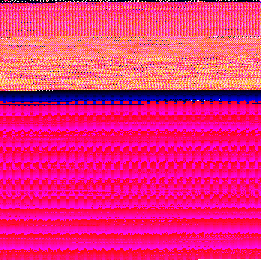
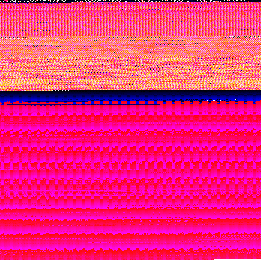
fix support of bump map multiplier - regenerate models image

diff --git a/objimg.js b/objimg.js
@@ -640,7 +640,7 @@
 						var diffuseColor = new THREE.Color(materialDatas.diffuse.r, materialDatas.diffuse.g, materialDatas.diffuse.b);
 						var specularColor = new THREE.Color(materialDatas.specular.r, materialDatas.specular.g, materialDatas.specular.b);
 						var normalScale = new THREE.Vector2(0.5, 0.5);
-						var bumpScale = 1.0;
+						var bumpScale = materialDatas.bump.multiplier;
 						var transparent = ((materialDatas.opacity.value < 1.0 || opacityMap != null) ? true : false);
 						var depthTest = materialDatas.shader.depthTest;
 						var depthWrite = materialDatas.shader.depthWrite;
@@ -1291,6 +1291,8 @@
 				var bumpMapCharacters = OBJImg.fn.getPixelValue(pixelIndex++, pixels);
 				var bumpClamp = (OBJImg.fn.getPixelValue(pixelIndex++, pixels) == 1 ? true : false);
 				var bumpChannel = OBJImg.fn.getPixelValue(pixelIndex++, pixels);
+				var bumpMultiplierMultiplicator = OBJImg.fn.getPixelValue(pixelIndex++, pixels);
+				var bumpMultiplier = OBJImg.fn.getPixelValue(pixelIndex++, pixels) / bumpMultiplierMultiplicator;
 
 				var bumpMap = null;
 
@@ -1408,7 +1410,8 @@
 					bump: {
 						map: bumpMap,
 						clamp: bumpClamp,
-						channel: bumpChannel || OBJImg.constants.channel.rgb
+						channel: bumpChannel || OBJImg.constants.channel.rgb,
+						multiplier: bumpMultiplier || 1.0
 					},
 					environement: {
 						map: environementMap,
@@ -2367,7 +2370,7 @@
 				pixelCount += 1 + materials[material].specular.map.length;
 				pixelCount += 1 + materials[material].specular.forceMap.length;
 				pixelCount += 1 + materials[material].normal.map.length;
-				pixelCount += 1 + materials[material].bump.map.length;
+				pixelCount += 3 + materials[material].bump.map.length;
 				pixelCount += 1 + materials[material].opacity.map.length;
 				pixelCount += 1 + materials[material].environement.map.length;
 				pixelCount += 1 + materials[material].shader.vertex.length;
@@ -2675,7 +2678,10 @@
 
 				var bumpMultiplierColor = OBJImg.fn.getColorFromValue(bumpMultiplerMultiplicator * materials[material].bump.multiplier);
 
-				console.log(materials[material].bump.multiplier, bumpMultiplerMultiplicatorColor, bumpMultiplierColor);
+				data[pixelIndex++] = bumpMultiplierColor.r;
+				data[pixelIndex++] = bumpMultiplierColor.g;
+				data[pixelIndex++] = bumpMultiplierColor.b;
+				data[pixelIndex++] = bumpMultiplierColor.a;
 
 				for( var character = 0, characterLength = materials[material].bump.map.length; character < characterLength; character++ ){
 

diff --git a/examples/index.html b/examples/index.html
@@ -76,22 +76,22 @@
 				generatedImage.src = "models/" + fileName + "/" + fileName + ".obj.png";
 				infos.style.opacity = 1;
 
-				// Generate the image (only to show you what she looks like)
-				OBJImg.generateIMG({
-					obj: "models/" + fileName + "/" + fileName + ".obj",
-					useWorker: false,
-					onComplete: function( datas ){
+				// Generate the image (only to show you how it looks like)
+				// OBJImg.generateIMG({
+				// 	obj: "models/" + fileName + "/" + fileName + ".obj",
+				// 	useWorker: false,
+				// 	onComplete: function( datas ){
 
-						generatedImage.src = datas;
-						infos.style.opacity = 1;
+				// 		generatedImage.src = datas;
+				// 		infos.style.opacity = 1;
 
-					},
-					onError: function( error ){
+				// 	},
+				// 	onError: function( error ){
 
-						console.error(error);
+				// 		console.error(error);
 
-					}
-				});
+				// 	}
+				// });
 
 				// Generate the THREE-JS Object3D from the image.
 				var obj = new OBJImg({
@@ -148,22 +148,22 @@
 <body>
 	<nav>
 		<select name="obj">
-			<option value="leon">leon scott kennedy</option>
 			<option value="predator">predator</option>
 			<option value="lara">lara croft (huge model)</option>
 			<option value="altair">altaïr</option>
 			<option value="geralt">geralt</option>
 			<option value="skull">skull</option>
 			<option value="crysis">crysis</option>
-			<option value="harley">harley</option>
+			<option value="eiffel">eiffel tower</option>
 			<option value="camaro">camaro ss</option>
 			<option value="delorean">delorean (very huge model)</option>
 			<option value="gun">gun</option>
 			<option value="stormtroopers">storm troopers</option>
+			<option value="harley">harley</option>
 			<option value="shuttle">shuttle</option>
 			<option value="teapot">teapot</option>
 			<option value="vanquish">vanquish</option>
-			<option value="eiffel">eiffel tower</option>
+			<option value="leon">leon scott kennedy</option>
 			<option value="cube">cube</option>
 			<option value="sphere">sphere</option>
 			<option value="icosphere">icosphere</option>
